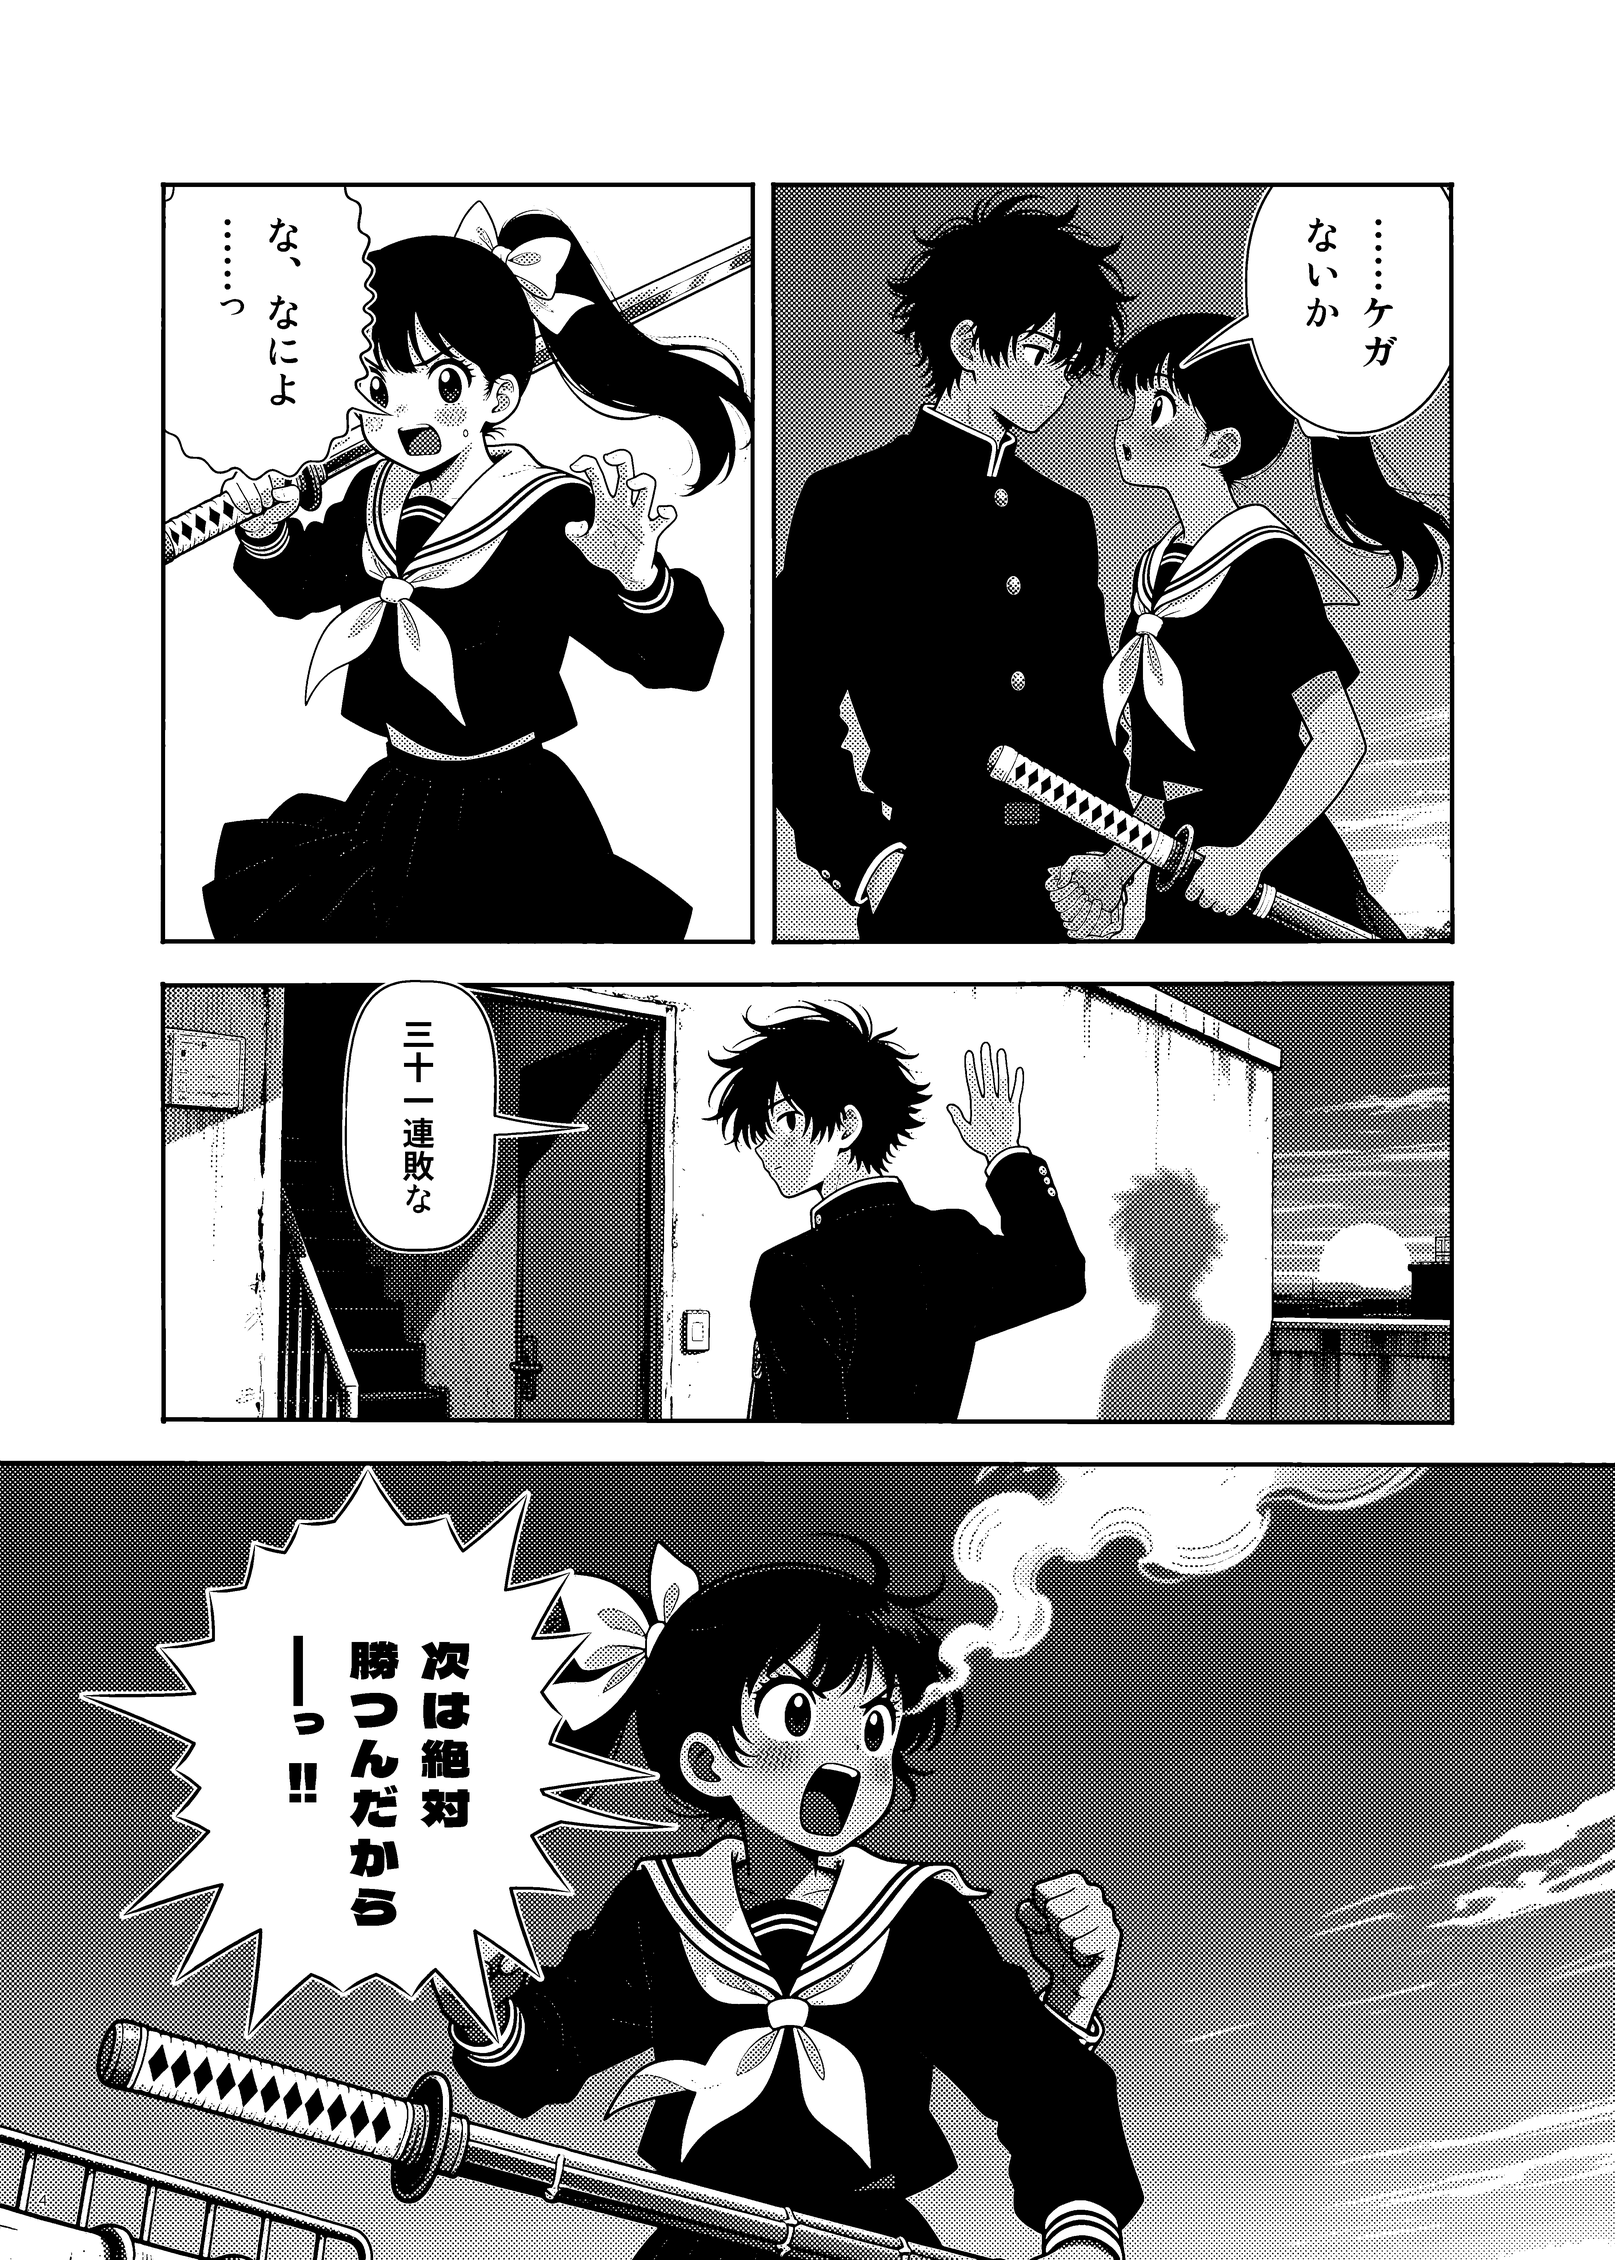
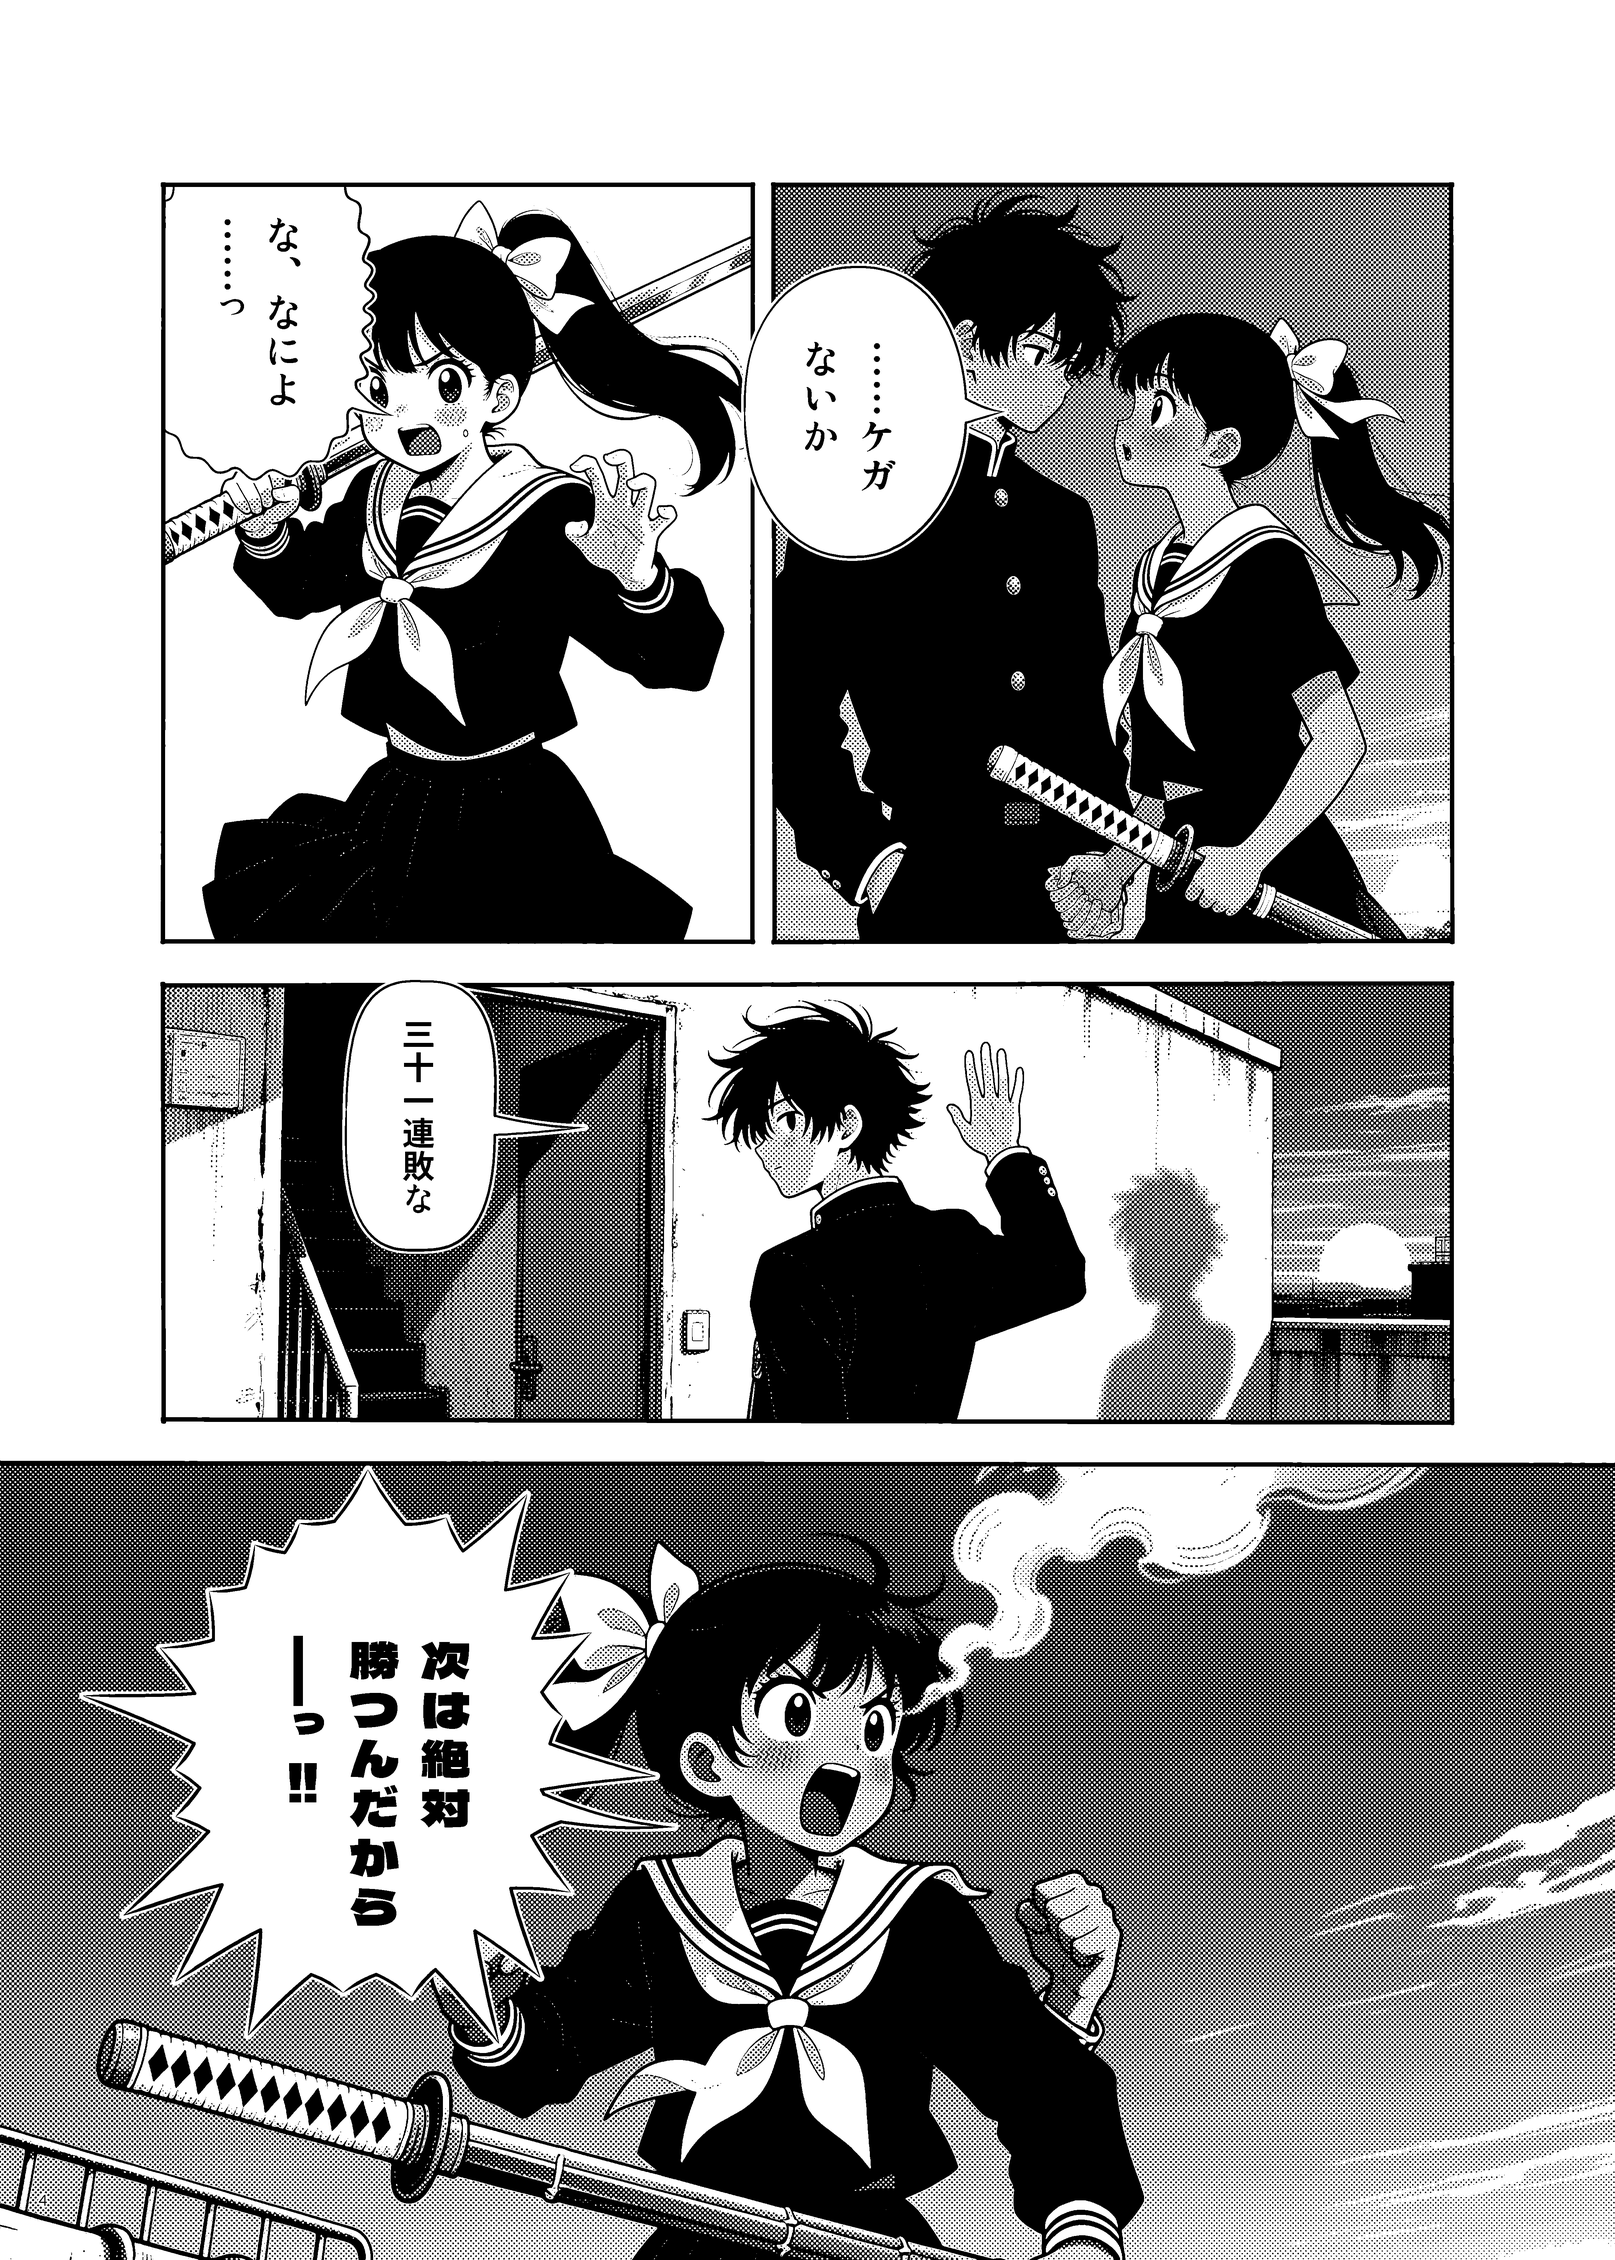
しっぽを顔で止めるのは向き先がその顔の上にある場合だけにする（同じ画像の別のキャラクターへのしっぽが手前の顔で止まらないように）

Changed region(s): [[0.435, 0.0937, 0.6215, 0.2498], [0.7458, 0.0624, 0.9011, 0.1873]]

diff --git a/src/elements/balloon.ts b/src/elements/balloon.ts
@@ -414,6 +414,14 @@ function quad(a: Vec, c: Vec, b: Vec, t: number): Vec {
   return { x: u * u * a.x + 2 * u * t * c.x + t * t * b.x, y: u * u * a.y + 2 * u * t * c.y + t * t * b.y };
 }
 
+/** the face box if the tail target lies on it (the box grown by 30 %), else undefined */
+function faceOf(face: Rect | undefined, target: Vec): Rect | undefined {
+  if (!face) return undefined;
+  const mx = face.w * 0.3;
+  const my = face.h * 0.3;
+  return target.x >= face.x - mx && target.x <= face.x + face.w + mx && target.y >= face.y - my && target.y <= face.y + face.h + my ? face : undefined;
+}
+
 function applyTails(contour: ShapeContour, tails: Obj[], tc: TailCtx): TailResult {
   const { ctx, plan, center } = tc;
   const u = ctx.u;
@@ -494,7 +502,9 @@ function applyTails(contour: ShapeContour, tails: Obj[], tc: TailCtx): TailResul
       let avail = Math.hypot(target.x - R.x, target.y - R.y) - gap;
       // do not run into the speaker's face
       const tgtRef = typeof t.to === "string" ? ctx.refs.target(t.to, ctx.panel?.panel.id) : who ? ctx.refs.target(who, ctx.panel?.panel.id) : undefined;
-      const face = tgtRef?.regions.face?.bbox;
+      // the face region is the speaker's only when the target lies on it (an image may also carry
+      // anchors for other characters: `close.hayato`)
+      const face = faceOf(tgtRef?.regions.face?.bbox, target);
       if (face) {
         const tf = rayEllipseEntry(R, dir, face);
         if (tf !== null) avail = Math.min(avail, tf - gap * 0.5);
@@ -528,7 +538,7 @@ function applyTails(contour: ShapeContour, tails: Obj[], tc: TailCtx): TailResul
     let arcFn: ((tt: number) => Vec) | null = null;
     if (kind === "wedge" && !offSide && t.curl !== false && target) {
       const ref = typeof t.to === "string" ? ctx.refs.target(t.to, ctx.panel?.panel.id) : who ? ctx.refs.target(who, ctx.panel?.panel.id) : undefined;
-      const fb = ref?.regions.face?.bbox;
+      const fb = faceOf(ref?.regions.face?.bbox, target);
       const F = fb ? { x: fb.x + fb.w / 2, y: fb.y + fb.h / 2 } : target;
       const toF = { x: F.x - R.x, y: F.y - R.y };
       const ang = Math.atan2(dir.x * toF.y - dir.y * toF.x, dir.x * toF.x + dir.y * toF.y);

diff --git a/docs/06-balloons.md b/docs/06-balloons.md
@@ -261,7 +261,7 @@ tail: none
 
 1. 付け根の中心 R: 本体の中心から向き先（または `direction`）への半直線と、本体の輪郭との交点。`root` に角度を指定した場合は、その方向の交点。
 2. 付け根の両端 A、B: 輪郭上で R から弧長 ±`width` / 2 の点。
-3. 先端 T: R から向き先へ向かって `length` 進んだ点。`to` がある場合、`length` の既定は「R から向き先までの距離 − `gap`」を `maxLength` で制限した値。話者の画像に `face` 領域があれば顔の楕円の手前で、なければ画像の不透明部分（シルエット）の 0.5 bmm 手前で止める。 本体がトゲ（`spike`）・爆発（`burst`）の場合は、しっぽがトゲに埋もれないよう、この既定の長さを 1.4 倍（6 bmm 以上）にする。
+3. 先端 T: R から向き先へ向かって `length` 進んだ点。`to` がある場合、`length` の既定は「R から向き先までの距離 − `gap`」を `maxLength` で制限した値。話者の画像に `face` 領域があり、向き先がその上（30 % 広げた範囲）にあれば顔の楕円の手前で（同じ画像の別のキャラクターのアンカーへ向けるしっぽは、その顔で止めない）、なければ画像の不透明部分（シルエット）の 0.5 bmm 手前で止める。 本体がトゲ（`spike`）・爆発（`burst`）の場合は、しっぽがトゲに埋もれないよう、この既定の長さを 1.4 倍（6 bmm 以上）にする。
 4. 中心線 R→T を、`bend` に応じた 2 次ベジェ曲線にする（制御点を中心線の中点から法線方向に `bend` × `length` × 0.5 ずらす）。
 5. 辺 A→T と B→T は、中心線に沿って先端へ収束する曲線とし、`sideCurve` に応じて内側へ反らせる。
 6. 向き先が本体の内側にある場合は、しっぽを描かず警告（`BALLOON_TAIL_TARGET_INSIDE`）を出す。
